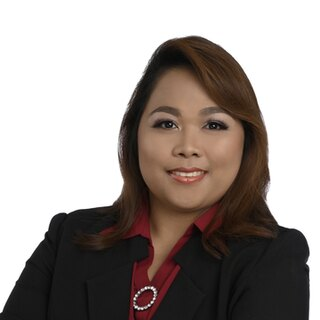
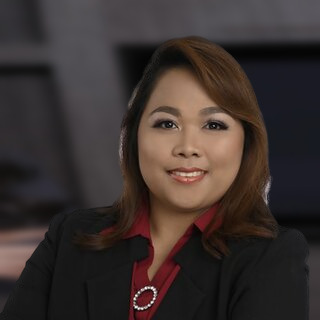
Landing page: About first, and one room behind the training team
About comes before Meet your training team, in the page and in the nav
pills, which follow it.

The five team photos were taken in five places — two on white, one in a
grey studio, one in a cafe, one outdoors — so the row read as five
stock images rather than one team. They now share the founder's
backdrop: the right-hand strip of her photo, the wood panelling and
cabinet with nobody in it, blurred as that photo's own depth of field
blurs it, with the same light fall-off towards the corners. Cut out
with u2net_human_seg and alpha matting, so hair edges survive. Same
pixel dimensions as before, so nothing on the page moves.

The Feedback section is called Feedback, in the band and the pill.

One real bug fixed while testing it: the dialog's five rating radios
are hidden with position:absolute and no coordinates, so all five
landed on the same spot, on top of the first star, and swallowed clicks
meant for its label. They take no pointer events now; the labels drive
them, and keyboard focus still reaches them.

Claude-Session: https://claude.ai/code/session_01GBLtJ9dCKyCHfbRy3ZeZCF

diff --git a/index.html b/index.html
@@ -204,7 +204,7 @@
        explains them belong together, and the block was running past the fold
        with the images stacked. The section's own anchor offset already clears
        the sticky nav, so the height to fill is the viewport minus that. */
-    #faq { min-height: calc(100vh - var(--nav-h, 105px) - var(--anchor-gap)); display: flex; flex-direction: column; justify-content: center; }
+    #faq, #feedback { min-height: calc(100vh - var(--nav-h, 105px) - var(--anchor-gap)); display: flex; flex-direction: column; justify-content: center; }
     .history-block {
         margin-top: 72px;
         min-height: calc(100vh - var(--nav-h, 105px) - var(--anchor-gap));
@@ -307,7 +307,7 @@
         .about-imgs { grid-template-columns: 1fr; }
         .history-block { min-height: 0; display: block; }
         .org-row, .values-grid { grid-template-columns: 1fr; }
-        #vision, #faq { min-height: 0; display: block; }
+        #vision, #faq, #feedback { min-height: 0; display: block; }
         .vm-body h3 { font-size: 20px; } .vm-body p { font-size: 15px; }
         .value-card { min-height: 84px; font-size: 16px; }
         .org-branch { display: none; } .org-row { margin-top: 0; } .org-card { min-width: 0; width: 100%; }
@@ -373,6 +373,53 @@
     .section > .band { margin: calc(var(--sec-pad-top) * -1) calc(50% - 50vw) 52px; padding: 22px 24px; background: var(--navy-mid); border-top: 1px solid rgba(255,255,255,0.08); border-bottom: 3px solid var(--orange); text-align: center; }
     .band h2 { margin: 0; color: #fff; font-size: clamp(20px, 2.6vw, 30px); font-weight: 900; letter-spacing: .12em; text-transform: uppercase; line-height: 1.2; }
     .section { border-top: 0 !important; }
+
+    /* ===== WHAT TRAINEES SAY =====
+       Ratings from signed-in trainees, shown only once an admin has approved
+       them (/api/feedback returns approved ones alone — there is no path that
+       puts un-approved words on this page). */
+    .fbk-top { display: flex; align-items: center; justify-content: space-between; gap: 20px; flex-wrap: wrap; margin-bottom: 22px; }
+    .fbk-score { display: flex; align-items: baseline; gap: 12px; }
+    .fbk-score b { font-size: clamp(34px, 4.4vw, 46px); font-weight: 900; color: var(--navy); line-height: 1; }
+    .fbk-score .out { font-size: 15px; color: var(--slate); font-weight: 700; }
+    .fbk-stars { color: #f59e0b; font-size: 19px; letter-spacing: 2px; }
+    .fbk-stars i { color: #cbd5e1; font-style: normal; }
+    .fbk-grid { display: grid; grid-template-columns: repeat(3, minmax(0, 1fr)); gap: 14px; }
+    .fbk-card { background: #fff; border: 1px solid rgba(15,33,72,.12); border-radius: 16px; padding: 16px 18px; box-shadow: 0 14px 30px -24px rgba(15,33,72,.5); display: flex; flex-direction: column; gap: 8px; }
+    .fbk-card .fbk-stars { font-size: 15px; }
+    .fbk-card p { margin: 0; font-size: 14px; line-height: 1.55; color: #334155; overflow-wrap: anywhere;
+        display: -webkit-box; -webkit-box-orient: vertical; -webkit-line-clamp: 5; overflow: hidden; }
+    .fbk-who { margin-top: auto; font-size: 12.5px; font-weight: 800; color: var(--navy); }
+    .fbk-who span { font-weight: 600; color: var(--slate); }
+    .fbk-empty { background: #fff; border: 1px dashed rgba(15,33,72,.2); border-radius: 16px; padding: 26px; text-align: center; color: var(--slate); font-size: 14.5px; }
+    .fbk-cta { display: flex; align-items: center; gap: 14px; flex-wrap: wrap; margin-top: 20px; }
+    .fbk-cta .note { font-size: 13px; color: var(--slate); }
+    /* The rating picker, in the dialog. Radios so a keyboard and a screen reader
+       get a real "1 to 5" control; the stars are the label. */
+    .fbk-pick { display: flex; flex-direction: row-reverse; justify-content: flex-end; gap: 2px; margin-top: 6px; }
+    .fbk-pick input { position: absolute; opacity: 0; width: 1px; height: 1px; margin: 0; pointer-events: none; }
+    .fbk-pick label { font-size: 30px; line-height: 1; color: #cbd5e1; cursor: pointer; padding: 0 2px; transition: color .12s ease; }
+    .fbk-pick input:checked ~ label, .fbk-pick label:hover, .fbk-pick label:hover ~ label { color: #f59e0b; }
+    .fbk-pick input:focus-visible + label { outline: 2px solid var(--orange); outline-offset: 2px; border-radius: 4px; }
+    .fbk-status { font-size: 13px; font-weight: 700; border-radius: 10px; padding: 9px 12px; margin-bottom: 12px; }
+    .fbk-status.Pending { background: #fff7ed; color: #9a3412; }
+    .fbk-status.Approved { background: #f0fdf4; color: #166534; }
+    .fbk-status.Rejected { background: #f1f5f9; color: #475569; }
+    @media (max-width: 1000px) { .fbk-grid { grid-template-columns: repeat(2, minmax(0, 1fr)); } }
+    @media (max-width: 680px) { .fbk-grid { grid-template-columns: 1fr; } }
+    @media (max-height: 820px) {
+        .fbk-grid { gap: 11px; } .fbk-card { padding: 13px 15px; gap: 6px; }
+        .fbk-card p { font-size: 13px; line-height: 1.45; -webkit-line-clamp: 4; }
+        .fbk-top { margin-bottom: 13px; } .fbk-cta { margin-top: 10px; }
+    }
+    @media (max-height: 745px) {
+        .fbk-card p { -webkit-line-clamp: 3; font-size: 12.5px; line-height: 1.45; }
+        .fbk-score b { font-size: 30px; }
+        .fbk-grid { gap: 9px; } .fbk-card { padding: 11px 13px; gap: 5px; }
+        .fbk-top { margin-bottom: 10px; } .fbk-cta { margin-top: 8px; }
+        .fbk-score b { font-size: 28px; } .fbk-score .out { font-size: 13px; }
+        .fbk-who { font-size: 11.5px; } .fbk-cta .note { font-size: 12px; }
+    }
     @media (max-width: 760px) { .section > .band { padding: 16px 16px; } .band h2 { letter-spacing: .08em; } }
     /* Log In / Log Out: one of the two shows, from /api/me. */
     .nav-pills .pill.pill-auth { background: var(--orange); border-color: var(--orange); color: #fff !important; }
@@ -426,10 +473,11 @@
         <div class="nav-pills">
             <!-- The pills that scroll this page come first, in the order the sections appear on it
                  (team, about, vision, values, faq), then the places that leave it, then the actions. -->
-            <a class="pill" href="#team">Meet your training team</a>
             <a class="pill" href="#about">About</a>
+            <a class="pill" href="#team">Meet your training team</a>
             <a class="pill" href="#vision">Mission, Vision and Values</a>
             <a class="pill" href="#faq">FAQs</a>
+            <a class="pill" href="#feedback">Feedback</a>
             <a class="pill" href="/blueprint.html">Platform Blueprint</a>
             <button type="button" class="pill" onclick="openReferral()">Got a referral?</button>
             <a class="pill" href="/admin-login.html" title="Admin monitoring (sign-in required)">Admin</a>
@@ -502,22 +550,6 @@
 </div>
 </div>
 
-<section class="section" id="team">
-    <div class="band"><h2>Meet the training team</h2></div>
-    <div class="org">
-        <div class="org-card"><img src="/img/team/gwen.jpg" alt="Gwen Paiso-Adams" width="320" height="320" loading="lazy"><div><div class="org-name">Gwen Paiso-Adams</div><div class="org-role">General Manager</div></div></div>
-        <div class="org-arrow" aria-hidden="true"></div>
-        <div class="org-card"><img src="/img/team/martin.jpg" alt="Martin Anthony Gan" width="320" height="320" loading="lazy"><div><div class="org-name">Martin Anthony “Matt” Gan</div><div class="org-role">Training Specialist and Coordinator</div></div></div>
-        <div class="org-stem" aria-hidden="true"></div>
-        <div class="org-branch" aria-hidden="true"><i></i><i></i><i></i></div>
-        <div class="org-row">
-            <div class="org-card"><img src="/img/team/michelle.jpg" alt="Michelle Velarde" width="306" height="320" loading="lazy"><div><div class="org-name">Michelle “Mitch” Velarde</div><div class="org-role">Training Facilitator</div></div></div>
-            <div class="org-card"><img src="/img/team/john.jpg" alt="John Dela Cruz" width="287" height="320" loading="lazy"><div><div class="org-name">John “Mikee” Dela Cruz</div><div class="org-role">Upskill Coach</div></div></div>
-            <div class="org-card"><img src="/img/team/lei.jpg" alt="Lei Lee Ann Abut" width="278" height="278" loading="lazy"><div><div class="org-name">Lei Lee Ann “Lei” Abut</div><div class="org-role">Learning and Development Specialist / Upskill Coach</div></div></div>
-        </div>
-    </div>
-</section>
-
 <section class="section" id="about">
     <div class="band"><h2>About Legal Support Help</h2></div>
     <div class="founder-block" id="founder">
@@ -544,6 +576,22 @@
                 <p>Legal Support Help (LSH) was established to assist professionals (e.g. Attorneys) and businesses (e.g. Law Firms, Medical Facilities) in delegating highly administrative, routine, and time-consuming tasks to reclaim their time and be more productive and efficient in both their professional and personal priorities. Founded in 2018.</p>
                 <p>Officially registered in Las Vegas, Nevada. 100% remote. Setting standards in legal and medical VA outsourcing. Providing law firm standard training to qualified virtual assistants. Making outsourcing processes faster for potential clients. Providing better virtual assistant services at affordable prices to clients.</p>
             </div>
+        </div>
+    </div>
+</section>
+
+<section class="section" id="team">
+    <div class="band"><h2>Meet the training team</h2></div>
+    <div class="org">
+        <div class="org-card"><img src="/img/team/gwen.jpg" alt="Gwen Paiso-Adams" width="320" height="320" loading="lazy"><div><div class="org-name">Gwen Paiso-Adams</div><div class="org-role">General Manager</div></div></div>
+        <div class="org-arrow" aria-hidden="true"></div>
+        <div class="org-card"><img src="/img/team/martin.jpg" alt="Martin Anthony Gan" width="320" height="320" loading="lazy"><div><div class="org-name">Martin Anthony “Matt” Gan</div><div class="org-role">Training Specialist and Coordinator</div></div></div>
+        <div class="org-stem" aria-hidden="true"></div>
+        <div class="org-branch" aria-hidden="true"><i></i><i></i><i></i></div>
+        <div class="org-row">
+            <div class="org-card"><img src="/img/team/michelle.jpg" alt="Michelle Velarde" width="306" height="320" loading="lazy"><div><div class="org-name">Michelle “Mitch” Velarde</div><div class="org-role">Training Facilitator</div></div></div>
+            <div class="org-card"><img src="/img/team/john.jpg" alt="John Dela Cruz" width="287" height="320" loading="lazy"><div><div class="org-name">John “Mikee” Dela Cruz</div><div class="org-role">Upskill Coach</div></div></div>
+            <div class="org-card"><img src="/img/team/lei.jpg" alt="Lei Lee Ann Abut" width="278" height="278" loading="lazy"><div><div class="org-name">Lei Lee Ann “Lei” Abut</div><div class="org-role">Learning and Development Specialist / Upskill Coach</div></div></div>
         </div>
     </div>
 </section>
@@ -618,6 +666,27 @@
     </div>
 </section>
 
+<!-- Feedback: ratings from signed-in trainees, after an admin approves
+     them in /feedback.html. /api/feedback returns approved ones only. -->
+<section class="section" id="feedback">
+    <div class="band"><h2>Feedback</h2></div>
+    <div class="fbk-top">
+        <div class="fbk-score" id="fbkScore" hidden>
+            <b id="fbkAvg">—</b>
+            <div>
+                <div class="fbk-stars" id="fbkAvgStars"></div>
+                <div class="out"><span id="fbkCount">0</span> rated their training</div>
+            </div>
+        </div>
+    </div>
+    <div class="fbk-grid" id="fbkGrid" hidden></div>
+    <div class="fbk-empty" id="fbkEmpty">Trainee ratings appear here once they're in. If you're training with us, yours can be the first.</div>
+    <div class="fbk-cta">
+        <button type="button" class="btn-primary" id="fbkOpen" onclick="openFeedback()">★ Rate your training</button>
+        <span class="note" id="fbkNote">Signed-in trainees only. An admin reviews each rating before it appears here.</span>
+    </div>
+</section>
+
 <footer>
     <div class="footer-inner">
         <div class="footer-bottom">&copy; 2026 Legal Support Help. All Rights Reserved.</div>
@@ -658,6 +727,46 @@
     .rf-done { text-align: center; padding: 18px 6px 6px; }
     .rf-done .big { font-size: 44px; }
 </style>
+<!-- Rate your training — the pop-up card. Sends to /api/feedback; admins approve
+     in /feedback.html, and nothing shows in "What Our Trainees Say" until they do.
+     Reuses the referral card's chrome (.rf-back / .rf-card): same dialog, same page. -->
+<div class="rf-back" id="fbkBack" onclick="if(event.target===this) closeFeedback()">
+    <div class="rf-card" role="dialog" aria-modal="true" aria-labelledby="fbkTitle">
+        <button type="button" class="rf-x" onclick="closeFeedback()" aria-label="Close">&#10005;</button>
+        <form id="fbkForm" novalidate>
+            <div class="eyebrow">Your training, in your words</div>
+            <h2 id="fbkTitle">Rate your training</h2>
+            <p class="rf-sub">How has your LSH training been? An admin reads every rating before it goes on this page, so give it a day or two to appear.</p>
+            <div class="fbk-status" id="fbkMine" hidden></div>
+
+            <label>Your rating
+                <div class="fbk-pick">
+                    <input type="radio" name="rating" id="fbk5" value="5"><label for="fbk5" title="5 out of 5">&#9733;</label>
+                    <input type="radio" name="rating" id="fbk4" value="4"><label for="fbk4" title="4 out of 5">&#9733;</label>
+                    <input type="radio" name="rating" id="fbk3" value="3"><label for="fbk3" title="3 out of 5">&#9733;</label>
+                    <input type="radio" name="rating" id="fbk2" value="2"><label for="fbk2" title="2 out of 5">&#9733;</label>
+                    <input type="radio" name="rating" id="fbk1" value="1"><label for="fbk1" title="1 out of 5">&#9733;</label>
+                </div>
+            </label>
+            <div class="rf-grid" style="margin-top:14px;">
+                <label class="full">Which program? <i>(optional)</i><input type="text" name="program" autocomplete="off" maxlength="80" placeholder="e.g. Case Management, EA / PA"></label>
+                <label class="full">What would you tell someone starting it?<textarea name="comment" maxlength="1200" required placeholder="What worked, what was hard, what you'd want a new trainee to know."></textarea></label>
+            </div>
+            <label class="rf-consent"><input type="checkbox" name="showName" value="yes" checked> Show my name with it. Leave this unticked and it appears as Anonymous.</label>
+            <div class="rf-err" id="fbkErr" role="alert"></div>
+            <div class="rf-acts">
+                <button type="button" class="rf-cancel" onclick="closeFeedback()">Cancel</button>
+                <button type="submit" class="btn-primary" id="fbkSend">Send for review</button>
+            </div>
+        </form>
+        <div class="rf-done" id="fbkDone" hidden>
+            <div class="big">&#11088;</div>
+            <h2>Thank you!</h2>
+            <p class="rf-sub">An admin will review it, and it appears on this page once they approve it. Send it again any time to change what it says.</p>
+            <div class="rf-acts" style="justify-content:center;"><button type="button" class="rf-cancel" onclick="closeFeedback()">Close</button></div>
+        </div>
+    </div>
+</div>
 <div class="rf-back" id="rfBack" onclick="if(event.target===this) closeReferral()">
     <div class="rf-card" role="dialog" aria-modal="true" aria-labelledby="rfTitle">
         <button type="button" class="rf-x" onclick="closeReferral()" aria-label="Close">✕</button>
@@ -750,6 +859,110 @@
 })();
 </script>
 
+<script>
+// The Feedback section and the Rate your training dialog.
+// Two requests, both to /api/feedback: the open one for the approved ratings
+// this page shows anybody, and ?mine=1 for the signed-in person's own. The
+// second doubles as the sign-in check — it answers 401 to a visitor — so the
+// button can say the right thing without a second endpoint.
+(function () {
+    const grid = document.getElementById('fbkGrid'), empty = document.getElementById('fbkEmpty');
+    const openBtn = document.getElementById('fbkOpen'), note = document.getElementById('fbkNote');
+    const back = document.getElementById('fbkBack'), form = document.getElementById('fbkForm');
+    const err = document.getElementById('fbkErr'), mineBox = document.getElementById('fbkMine');
+    let lastFocus = null, mine = null, signedIn = false;
+
+    const esc = v => String(v == null ? '' : v).replace(/[&<>"']/g, c => ({ '&': '&amp;', '<': '&lt;', '>': '&gt;', '"': '&quot;', "'": '&#39;' }[c]));
+    const stars = n => '\u2605'.repeat(n) + (n < 5 ? '<i>' + '\u2605'.repeat(5 - n) + '</i>' : '');
+    const showErr = m => { err.textContent = m; err.style.display = m ? 'block' : 'none'; };
+
+    async function loadPublic() {
+        let d;
+        try { d = await (await fetch('/api/feedback', { cache: 'no-store' })).json(); } catch (e) { return; }
+        if (!d || !d.success || !d.feedback || !d.feedback.length) return;      // the empty note stays
+        document.getElementById('fbkAvg').textContent = d.average.toFixed(1);
+        document.getElementById('fbkAvgStars').innerHTML = stars(Math.round(d.average));
+        document.getElementById('fbkCount').textContent = d.count;
+        document.getElementById('fbkScore').hidden = false;
+        grid.innerHTML = d.feedback.slice(0, 6).map(r => `
+            <figure class="fbk-card">
+                <div class="fbk-stars" aria-label="${r.rating} out of 5">${stars(r.rating)}</div>
+                <blockquote style="margin:0;"><p>${esc(r.comment)}</p></blockquote>
+                <figcaption class="fbk-who">${esc(r.name || 'Anonymous')}${r.program ? ` <span>&middot; ${esc(r.program)}</span>` : ''}</figcaption>
+            </figure>`).join('');
+        grid.hidden = false; empty.hidden = true;
+    }
+
+    async function loadMine() {
+        let res;
+        try { res = await fetch('/api/feedback?mine=1', { credentials: 'include', cache: 'no-store' }); } catch (e) { return; }
+        if (res.status === 401 || res.status === 423) {
+            // A visitor, or a locked site. Say so on the button rather than
+            // opening a dialog that could only fail at the end.
+            openBtn.textContent = '\u2605 Log in to rate your training';
+            openBtn.onclick = () => { location.href = '/trainee-login.html?next=' + encodeURIComponent('/index.html#feedback'); };
+            return;
+        }
+        let d; try { d = await res.json(); } catch (e) { return; }
+        if (!d || !d.success) return;
+        signedIn = true; mine = d.mine;
+        if (mine) {
+            openBtn.textContent = '\u2605 Edit your rating';
+            note.textContent = mine.status === 'Approved' ? 'Yours is showing on this page.'
+                : mine.status === 'Pending' ? 'Yours is with an admin for review.'
+                : 'Yours was not published. You can send a new one.';
+        }
+    }
+
+    window.openFeedback = function () {
+        if (!signedIn) { location.href = '/trainee-login.html?next=' + encodeURIComponent('/index.html#feedback'); return; }
+        lastFocus = document.activeElement;
+        if (mine) {
+            mineBox.hidden = false; mineBox.className = 'fbk-status ' + mine.status;
+            mineBox.textContent = mine.status === 'Approved' ? 'Your rating is approved and showing on this page. Sending a new one puts it back in the queue.'
+                : mine.status === 'Pending' ? 'Your rating is waiting for an admin to review it.'
+                : 'Your last rating was not published. Sending a new one puts it back in the queue.';
+            const r = form.querySelector('input[name=rating][value="' + mine.rating + '"]'); if (r) r.checked = true;
+            form.elements.program.value = mine.program || '';
+            form.elements.comment.value = mine.comment || '';
+            form.elements.showName.checked = !!mine.show_name;
+        }
+        back.classList.add('open'); document.body.style.overflow = 'hidden';
+        setTimeout(() => { const f = back.querySelector(form.hidden ? '#fbkDone button' : '.fbk-pick input:checked, #fbk5'); if (f) f.focus(); }, 30);
+    };
+    window.closeFeedback = function () {
+        back.classList.remove('open'); document.body.style.overflow = '';
+        if (lastFocus && lastFocus.focus) lastFocus.focus();
+    };
+    document.addEventListener('keydown', e => { if (e.key === 'Escape' && back.classList.contains('open')) closeFeedback(); });
+
+    form.addEventListener('submit', async function (e) {
+        e.preventDefault(); showErr('');
+        const picked = form.querySelector('input[name=rating]:checked');
+        if (!picked) return showErr('Pick a rating from 1 to 5 stars.');
+        const comment = (form.elements.comment.value || '').trim();
+        if (comment.length < 10) return showErr('Please say a little more about your training.');
+        const btn = document.getElementById('fbkSend');
+        btn.disabled = true; btn.textContent = 'Sending\u2026';
+        try {
+            const res = await fetch('/api/feedback', {
+                method: 'POST', credentials: 'include', headers: { 'Content-Type': 'application/json' },
+                body: JSON.stringify({ rating: Number(picked.value), comment, program: form.elements.program.value, showName: form.elements.showName.checked })
+            });
+            const d = await res.json();
+            if (!d.success) throw new Error(d.error || 'Could not send that. Please try again.');
+            mine = { rating: Number(picked.value), comment, program: form.elements.program.value, show_name: form.elements.showName.checked ? 1 : 0, status: 'Pending' };
+            form.hidden = true; document.getElementById('fbkDone').hidden = false;
+            openBtn.textContent = '\u2605 Edit your rating';
+            note.textContent = 'Yours is with an admin for review.';
+        } catch (e2) {
+            showErr(e2.message);
+        } finally { btn.disabled = false; btn.textContent = 'Send for review'; }
+    });
+
+    loadPublic(); loadMine();
+})();
+</script>
 <script src="/portal-nav.js"></script>
 <script>
 // Log In or Log Out in the header, from who is signed in on this browser (the cookie, via /api/me).
